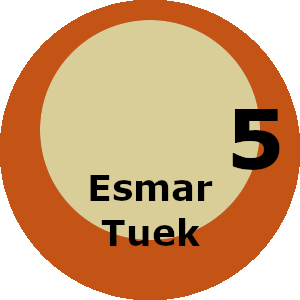
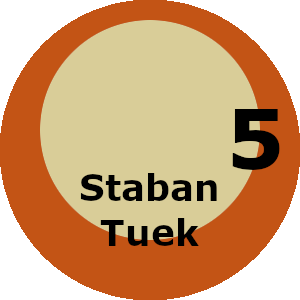
1.7.1
tuek switch and plus minus switch

diff --git a/styles.css b/styles.css
@@ -95,7 +95,7 @@ chlogvers {
 
 .grid-container-pack {
 	display: grid;
-	grid-template-areas: "input input input" "plus label minus";
+	grid-template-areas: "input input input" "minus label plus";
 
 }
 
@@ -103,8 +103,8 @@ chlogvers {
 
 .grid-pack-plus {
 	grid-area: plus;
-	margin-left: auto;
-	margin-right: 0;
+	margin-right: auto;
+	margin-left: 0;
 	margin-top: auto;
 	margin-bottom: auto;
 	width: 35px;
@@ -120,8 +120,8 @@ chlogvers {
 
 .grid-pack-minus {
 	grid-area: minus;
-	margin-left: 0;
-	margin-right: auto;
+	margin-right: 0;
+	margin-left: auto;
 	margin-top: auto;
 	margin-bottom: auto;
 	width: 35px;
@@ -150,11 +150,36 @@ chlogvers {
 	margin-right: auto;
 }
 
+.grid-pack-homeworlds {
+	grid-area: homeworlds;
+	margin-left: auto;
+	margin-right: 0;
+	margin-top: auto;
+	margin-bottom: auto;
+}
+
+.grid-pack-ecaz {
+	grid-area: ecaz;
+	margin-left: 0;
+	margin-right: auto;
+	margin-top: auto;
+	margin-bottom: auto;
+}
+
+.grid-container-head {
+	display: grid;
+	margin-left: auto;
+	margin-right: auto;
+	grid-template-areas: "homeworlds ecaz" "label label";
+	grid-template-columns: 1fr 1fr;
+	max-width: 400px;
+}
+
 .grid-container-pack2 {
 	display: grid;
 	margin-left: auto;
 	margin-right: auto;
-	grid-template-areas: "plus input minus" "label label label";
+	grid-template-areas: "minus input plus" "label label label";
 	grid-template-columns: 1fr 1fr 1fr;
 	max-width: 200px;
 }
@@ -163,7 +188,7 @@ chlogvers {
 	display: grid;
 	margin-left: auto;
 	margin-right: 0px;
-	grid-template-areas: "plus input minus" "label label label" "label2 label2 label2" "label3 label3 label3";
+	grid-template-areas: "minus input plus" "label label label" "label2 label2 label2" "label3 label3 label3";
 	grid-template-columns: 1fr 1fr 1fr;
 	max-width: 200px;
 }
@@ -172,7 +197,7 @@ chlogvers {
 	display: grid;
 	margin-left: var(--star-margin-left);
 	margin-right:  var(--star-margin-right);
-	grid-template-areas: "plus input minus" "label label label";
+	grid-template-areas: "minus input plus" "label label label";
 	grid-template-columns: 1fr 1fr 1fr;
 	max-width: 200px;
 }
@@ -181,7 +206,7 @@ chlogvers {
 	display: grid;
 	margin-left:  var(--spice-margin-left);
 	margin-right:  var(--spice-margin-right);
-	grid-template-areas: "plus input minus" "label label label";
+	grid-template-areas: "minus input plus" "label label label";
 	grid-template-columns: 1fr 1fr 1fr;
 	max-width: 200px;
 }
@@ -190,7 +215,7 @@ chlogvers {
 	display: grid;
 	margin-left: 0px;
 	margin-right: auto;
-	grid-template-areas: "plus input minus" "label label label";
+	grid-template-areas: "minus input plus" "label label label";
 	grid-template-columns: 1fr 1fr 1fr;
 	max-width: 200px;
 }
@@ -200,7 +225,7 @@ chlogvers {
 	display: grid;
 	margin-left: 0px;
 	margin-right: auto;
-	grid-template-areas: "plus input minus" "label label label";
+	grid-template-areas: "minus input plus" "label label label";
 	grid-template-columns: 1fr 1fr 1fr;
 	max-width: 200px;
 }
@@ -209,7 +234,7 @@ chlogvers {
 	display: grid;
 	margin-left: auto;
 	margin-right: auto;
-	grid-template-areas: "plus input minus" "label label label";
+	grid-template-areas: "minus input plus" "label label label";
 	grid-template-columns: 1fr 1fr 1fr;
 	max-width: 200px;
 }
@@ -218,7 +243,7 @@ chlogvers {
 	display: grid;
 	margin-left: auto;
 	margin-right: auto;
-	grid-template-areas: "plus input minus" "label label label";
+	grid-template-areas: "minus input plus" "label label label";
 	grid-template-columns: 1fr 1fr 1fr;
 	max-width: 200px;
 }

diff --git a/what.html b/what.html
@@ -57,6 +57,12 @@
 	  
 	  <big>Changelog</big>
 	  <br>
+	  <chlogvers>1.7.1 - 07.04.2024</chlogvers><br>
+	  <ul>
+	  <li>- Staban and Esmar Tuek were switched.... again</li>
+	  <li>- Switched Plus and Minus Buttons around based on user feedback
+	  </ul>
+	  <br>
 	  <chlogvers>1.7 - 17.11.2023</chlogvers><br>
 	  <ul>
 	  <li>- Added Reinforcements and Harass & Withdraw Treachery cards</li>
